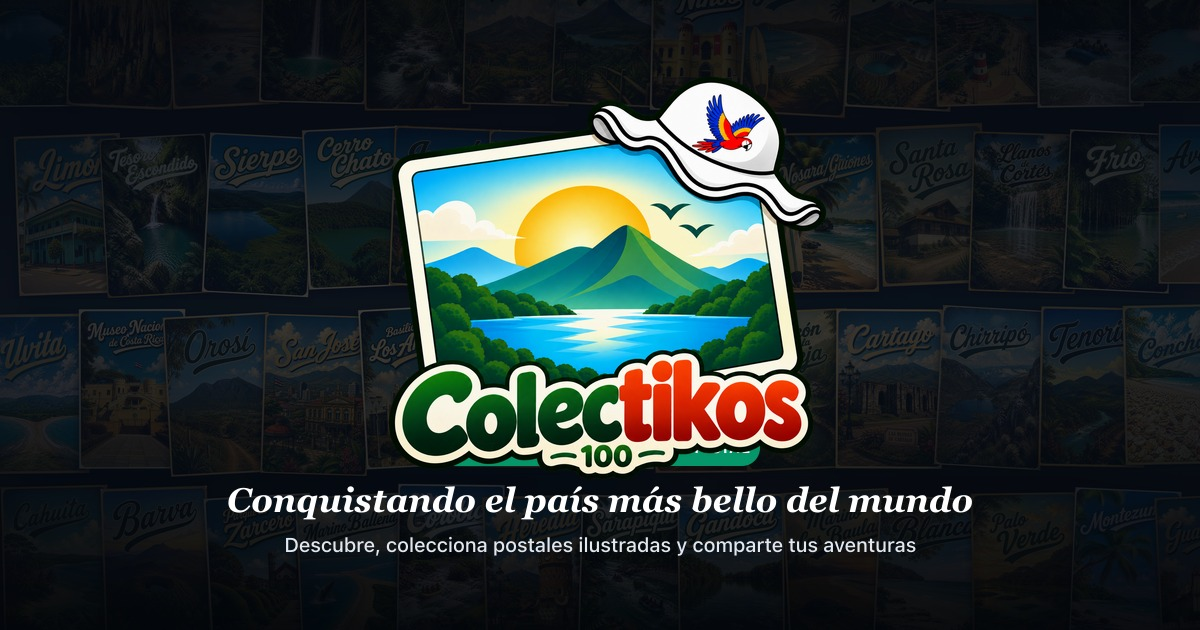
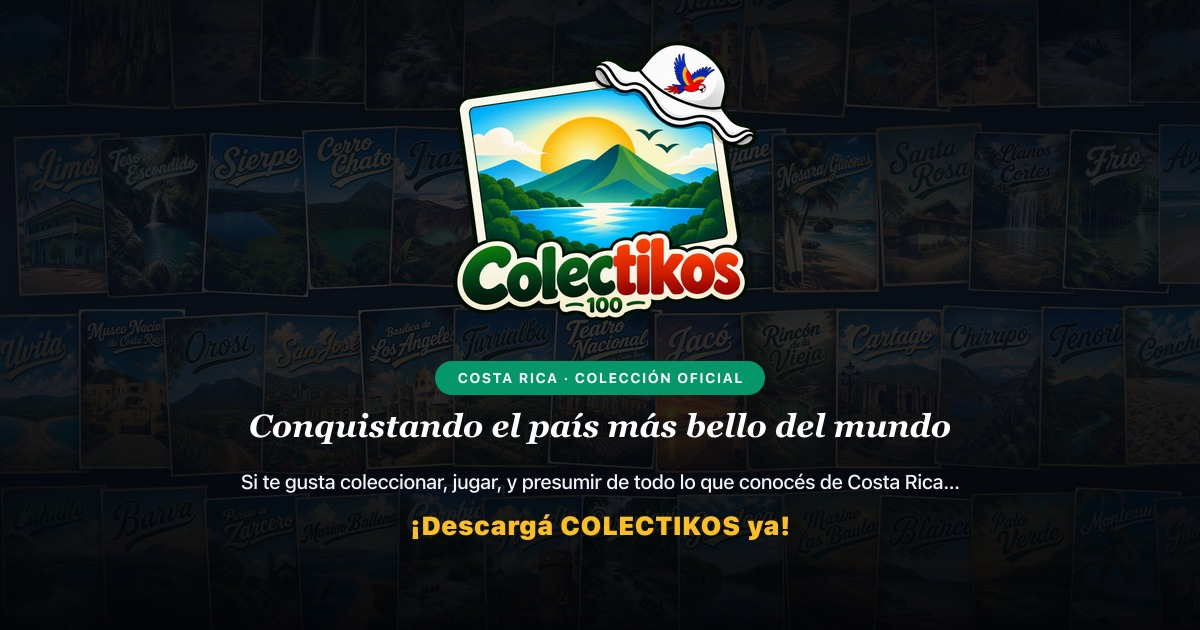
feat(seo): actualizar texto y diseño de tarjeta OpenGraph con llamado a la accion

Changed region(s): [[0.185, 0.0603, 0.8325, 0.8746]]

diff --git a/src/app/[lang]/layout.tsx b/src/app/[lang]/layout.tsx
@@ -11,7 +11,7 @@ export const metadata: Metadata = {
     template: "%s | Colectikos",
   },
   applicationName: "Colectikos",
-  description: "Descubre, colecciona postales ilustradas y comparte los destinos más increíbles de Costa Rica.",
+  description: "Si te gusta coleccionar, jugar, y presumir de todo lo que conocés de Costa Rica... ¡Descargá COLECTIKOS ya!",
   manifest: "/manifest.json",
   appleWebApp: {
     capable: true,
@@ -34,7 +34,7 @@ export const metadata: Metadata = {
     url: 'https://colectikos.com',
     siteName: 'Colectikos',
     title: 'Colectikos | Conquistando el país más bello del mundo',
-    description: 'Descubre, colecciona postales ilustradas y comparte los destinos más increíbles de Costa Rica.',
+    description: 'Si te gusta coleccionar, jugar, y presumir de todo lo que conocés de Costa Rica... ¡Descargá COLECTIKOS ya!',
     images: [
       {
         url: '/images/og-image.jpg',
@@ -47,7 +47,7 @@ export const metadata: Metadata = {
   twitter: {
     card: 'summary_large_image',
     title: 'Colectikos | Conquistando el país más bello del mundo',
-    description: 'Descubre, colecciona postales ilustradas y comparte los destinos más increíbles de Costa Rica.',
+    description: 'Si te gusta coleccionar, jugar, y presumir de todo lo que conocés de Costa Rica... ¡Descargá COLECTIKOS ya!',
     images: ['/images/og-image.jpg'],
   },
 };
